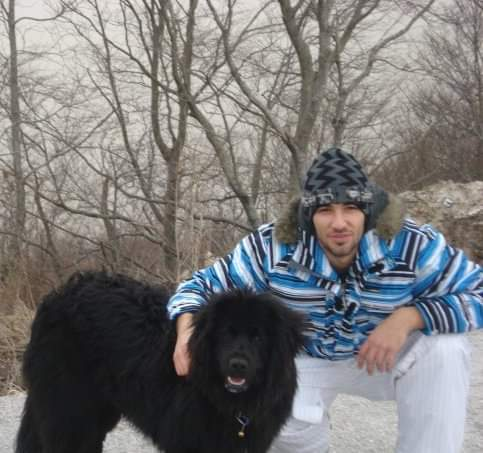
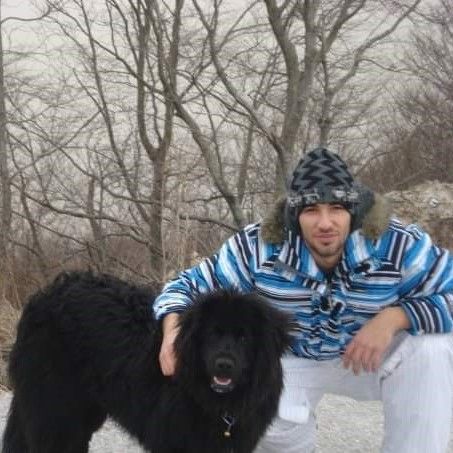
Fixed issue where border radius on images on about.html was not making a complete circle border. I achieved this by editing my images to they were perfectly square.

diff --git a/about.html b/about.html
@@ -226,6 +226,24 @@
                     </div>
                 </div>
             </section>
+
+            <div class="breeding">
+                <div class="breeding-image">
+                    <img src="/assets/images/youtube-logo.jpeg" alt="Youtube Logo">
+                </div>
+                <div class="breeding-text">
+                    <h4>New Puppies!</h4>
+                    <p>This is a wider card with supporting text below as a natural lead-in to
+                        additional content.
+                        This is a wider card with supporting text below as a natural lead-in to
+                        additional content.
+                        This is a wider card with supporting text below as a natural lead-in to
+                        additional content.
+                    </p>
+
+                </div>
+
+            </div>
     </section>
 
 

diff --git a/assets/css/style.css b/assets/css/style.css
@@ -385,7 +385,7 @@ a:hover {
 }
 
 #about-container-two video {
-    height: 40vh;
+    height: 25vh;
     width: 100%;
     z-index: 10;
     object-fit: cover;
@@ -568,7 +568,8 @@ a:hover {
 
 @media (max-width: 600px) {
 
-    .breeding {
+    .breeding,
+    .about {
         flex-direction: column;
         text-align: center;
         padding: 20px 5px;
